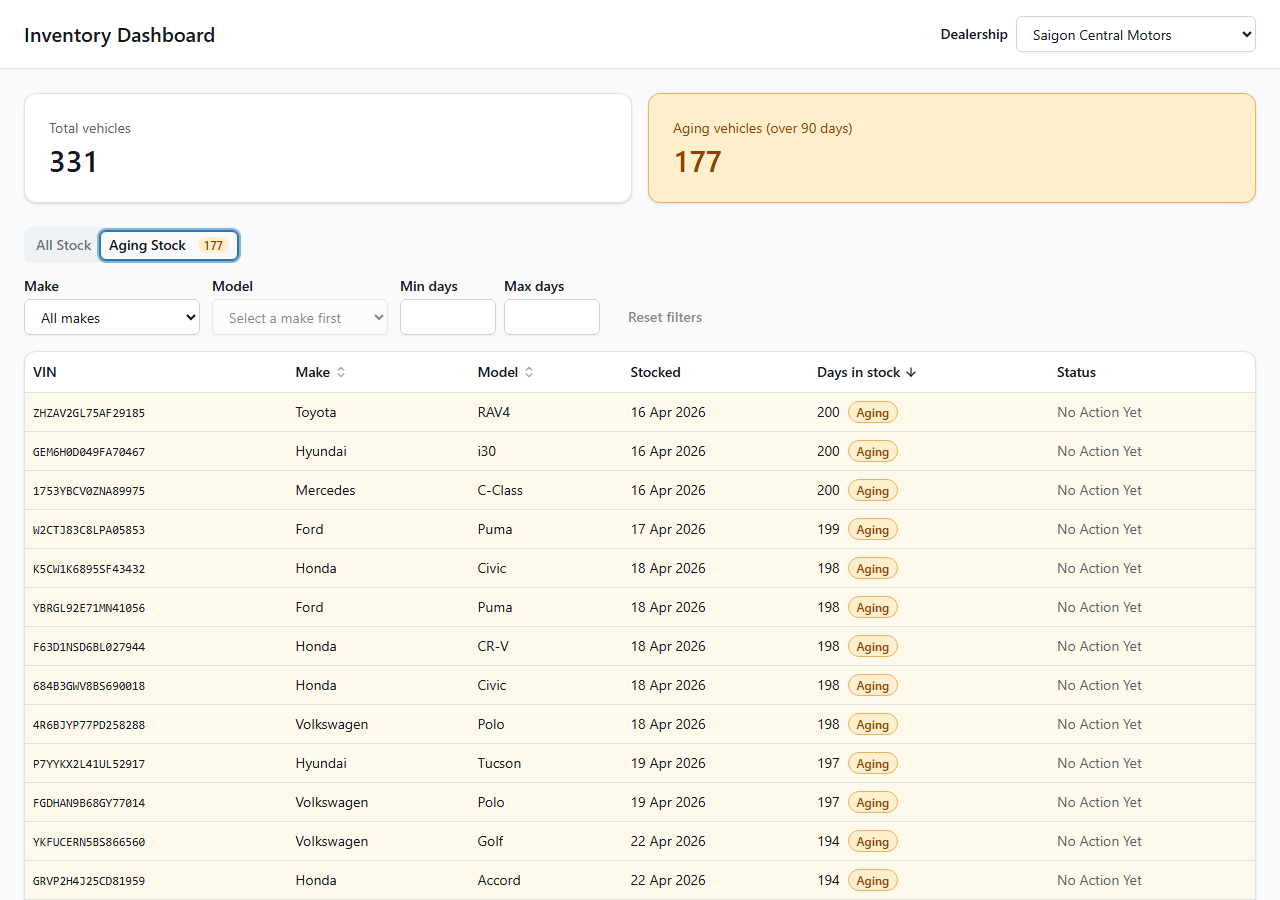
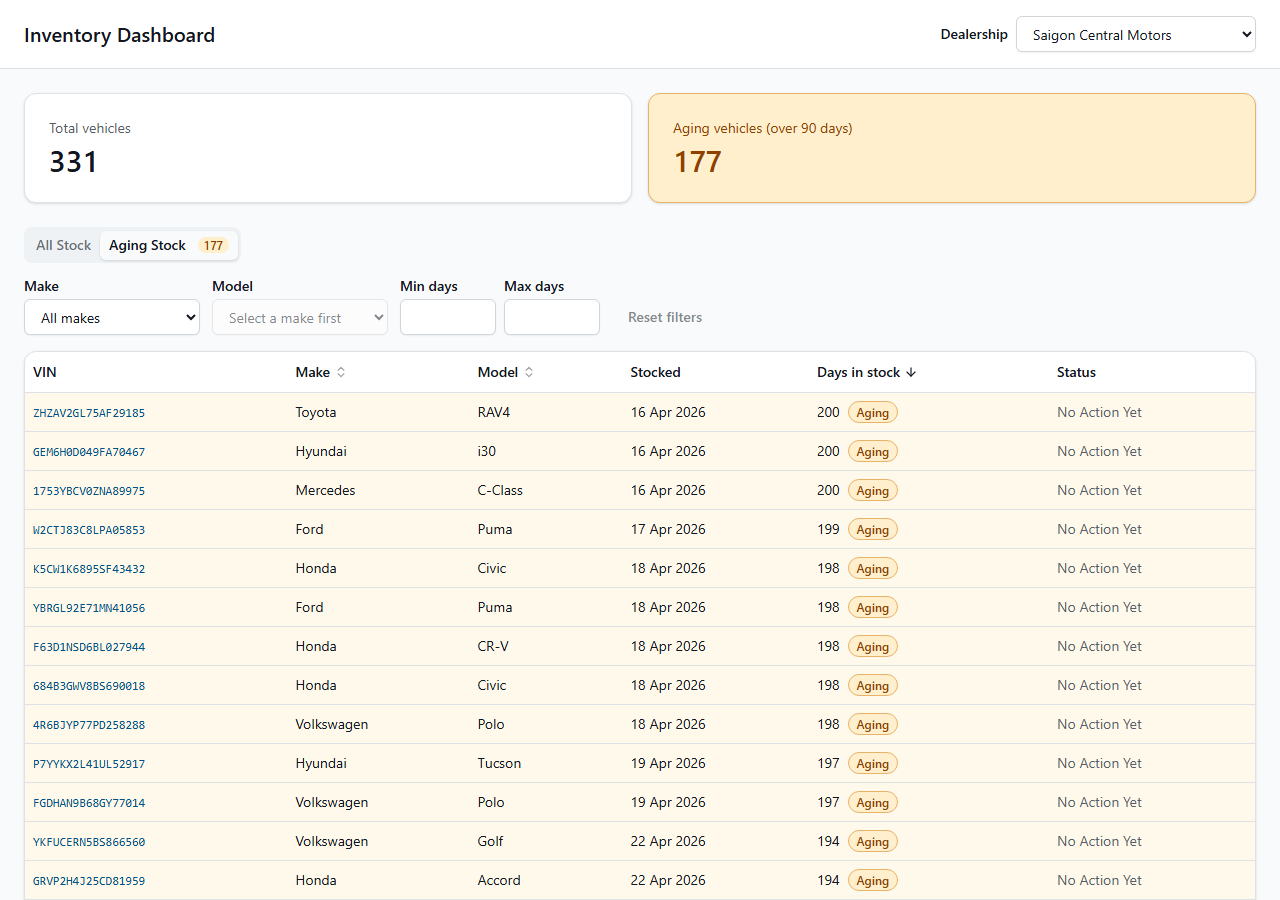
docs: complete README and AI collaboration narrative

diff --git a/src/lib/queryClient.test.ts b/src/lib/queryClient.test.ts
@@ -1,0 +1,9 @@
+import { createQueryClient } from '@/lib/queryClient';
+
+describe('createQueryClient', () => {
+  it('keeps data fresh by polling every 60 seconds and refetching on tab focus', () => {
+    const { queries } = createQueryClient().getDefaultOptions();
+    expect(queries?.refetchInterval).toBe(60_000);
+    expect(queries?.refetchOnWindowFocus).toBe(true);
+  });
+});

diff --git a/README.md b/README.md
@@ -1,22 +1,139 @@
 # Intelligent Inventory Dashboard
 
-Keyloop Technical Assessment, Scenario B (frontend). See [SYSTEM_DESIGN.md](SYSTEM_DESIGN.md) for the architecture.
+Keyloop Technical Assessment, Scenario B (Supply). A dashboard that lets a dealership manager see vehicle stock, spot cars in stock for more than 90 days, and record a decision on each one.
+
+The **frontend is fully built**. The backend is mocked with [MSW](https://mswjs.io), which follows the API contract in the design, so replacing it with a real API needs no change to application code.
+
+- **Architecture and decisions:** [SYSTEM_DESIGN.md](SYSTEM_DESIGN.md)
+- **Delivery plan:** [PLAN.md](PLAN.md)
+- **Phase-by-phase AI log:** [docs/ai-log.md](docs/ai-log.md)
+
+![Inventory list with the aging summary, tabs and filters](docs/screenshots/inventory-list.png)
+
+## What it does
+
+| Requirement             | How it works                                                                                                                                                                                         |
+| ----------------------- | ---------------------------------------------------------------------------------------------------------------------------------------------------------------------------------------------------- |
+| **Inventory list**      | Filter by make, model (depends on make) and days in stock. Sorting and paging happen on the server. All state is in the URL, so views can be shared and survive a reload.                            |
+| **Aging stock**         | Vehicles over 90 days get a badge, a tinted row, a highlighted summary card and their own tab, oldest first. Age is calculated by the API on the dealership's local calendar, never the browser.     |
+| **Actionable insights** | Log a status and optional note on an aging vehicle. Saves appear immediately and roll back on failure. A version check catches two managers editing the same car. Every change is kept in a history. |
+
+![Action panel with a saved action and its history](docs/screenshots/action-panel.png)
 
 ## Getting started
+
+You need Node.js 22.12 or later.
 
 ```bash
 npm install
 npm run dev
 ```
 
+Open <http://localhost:5173>. The mock API starts automatically, and there is nothing else to run.
+
 ## Scripts
 
-| Script               | Purpose                     |
-| -------------------- | --------------------------- |
-| `npm run dev`        | Start the dev server        |
-| `npm run build`      | Typecheck and build         |
-| `npm run preview`    | Serve the production build  |
-| `npm run lint`       | ESLint and Prettier checks  |
-| `npm run typecheck`  | TypeScript checks           |
-| `npm test`           | Run the test suite once     |
-| `npm run test:watch` | Run the tests in watch mode |
+| Script               | Purpose                                                 |
+| -------------------- | ------------------------------------------------------- |
+| `npm run dev`        | Dev server with the mock API                            |
+| `npm test`           | Run the test suite once                                 |
+| `npm run test:watch` | Run the tests in watch mode                             |
+| `npm run lint`       | ESLint and Prettier checks                              |
+| `npm run typecheck`  | TypeScript checks                                       |
+| `npm run build`      | Production build, without the mock (expects a real API) |
+| `npm run build:demo` | Production build with the mock included                 |
+| `npm run preview`    | Serve the latest build                                  |
+
+To try a built version with data, run `npm run build:demo`, then `npm run preview`.
+
+## Testing
+
+`npm test` runs the suite with Vitest and React Testing Library. CI runs lint, typecheck, tests and a build on every pull request.
+
+| Layer          | What is covered                                                                                                                               |
+| -------------- | --------------------------------------------------------------------------------------------------------------------------------------------- |
+| Business rules | Day 90 versus day 91, local midnight in several time zones, 23-hour and 25-hour daylight-saving days                                          |
+| Mock API       | Filters, sorting, paging, validation and the 400, 404 and 409 responses, called through the real API client                                   |
+| User behaviour | The whole app rendered against the mock handlers: filters and URL state, aging view, saving, validation, rollback, conflicts and keyboard use |
+| Observability  | Request ids, log format and the error boundary                                                                                                |
+
+## Demo scenarios
+
+| Scenario             | How to reproduce                                                                                                                                                      |
+| -------------------- | --------------------------------------------------------------------------------------------------------------------------------------------------------------------- |
+| Failed page load     | Open `/?mockError=500`, then use **Try again**                                                                                                                        |
+| Failed save          | Open `/?mockError=500&mockErrorOn=PUT`, then save an action on an aging vehicle. It appears, rolls back and a message explains why                                    |
+| Version conflict     | Open the same aging vehicle in two tabs. In tab B, change the status **without saving**. In tab A, change it and save. Back in tab B, save: "Updated by someone else" |
+| Different time zones | Use the dealership picker. The three dealerships are in Ho Chi Minh City, London and New York                                                                         |
+| Clear saved actions  | Remove `inventory-dashboard.mock-actions.v1` from localStorage                                                                                                        |
+
+## About the mock
+
+- It generates 1,000 vehicles from a fixed seed. Stocking dates are relative to today, so the demo always has a spread of 0 to 200 days.
+- Actions and history are saved in localStorage. Vehicles come from the seed.
+- Responses take 200 to 600 ms, to simulate a network.
+- Actions are recorded as "Demo Manager", because authentication is out of scope.
+- The mock is loaded on demand and is left out of `npm run build`.
+
+## Project structure
+
+```
+src/
+  api/          Typed fetch client, endpoints and query keys
+  components/   Shared UI (shadcn/ui in components/ui)
+  features/
+    inventory/  Summary, tabs, filters, table, paging and URL state
+    vehicle/    Side panel, action form and history
+  domain/       Types, statuses and the aging calculation
+  hooks/        Data fetching and the optimistic save
+  lib/          Logger, web vitals, URL state and formatting
+  mocks/        MSW seed, database, handlers and error injection
+  test/         Test setup, fixtures and render helpers
+```
+
+## Observability
+
+- **Logs:** structured JSON through one logger in `src/lib/logger.ts`. `setLogSink` is the single place to connect a service such as Sentry.
+- **Errors:** an error boundary and global handlers catch unexpected failures, and API failures are logged with their request id.
+- **Metrics:** web vitals (CLS, FCP, INP, LCP, TTFB) are logged as `web_vital` entries.
+- **Tracing:** every API call sends a unique `X-Request-Id`, to link a UI error to backend logs.
+
+## AI Collaboration Narrative
+
+### Strategy
+
+I treated the AI as a fast engineer working to a specification I own. I used Claude for research and design, then Claude Code for implementation.
+
+1. **Design first.** I chose the scenario and shaped the design with Claude, cutting what the brief did not need. [SYSTEM_DESIGN.md](SYSTEM_DESIGN.md) records those decisions.
+2. **Written rules.** [PLAN.md](PLAN.md) set the source of truth, one branch and pull request per phase, and a ban on inventing business rules.
+3. **Check before coding.** I had the agent compare the brief with the design and plan before writing code. That added the missing response shapes, a maintainability note and an explicit "no authentication" assumption.
+
+### Verifying the output
+
+I did not accept the AI's work because it looked right. Each phase had to pass independent checks:
+
+- **Automated gates:** lint, strict typecheck, tests and a build, locally and in CI.
+- **Tests on the rules that matter most:** the 90-day boundary, time zones, daylight saving, optimistic rollback and version conflicts.
+- **A real browser:** jsdom cannot run a service worker, so scripted Chromium runs exercised the real mock, two real tabs and the built bundle.
+- **Accessibility tooling:** an axe audit and a keyboard-only run.
+- **The [AI log](docs/ai-log.md):** what was asked, kept, changed and how it was verified, per phase.
+
+### What verification caught
+
+| Problem                                                                                                                     | How it was found         | Resolution                                                                                 |
+| --------------------------------------------------------------------------------------------------------------------------- | ------------------------ | ------------------------------------------------------------------------------------------ |
+| The planned two-tab conflict could never fire, because refetch on focus gave the second tab the new version before it saved | Reasoning about the plan | An edited form keeps the version it started from. Tested, and confirmed with two real tabs |
+| `?mockError=500` was used up by the first request on page load, so a failed save could not be demonstrated                  | Reasoning about the plan | Added `&mockErrorOn=PUT`                                                                   |
+| Closing the panel sent keyboard focus to the top of the page                                                                | A failing test           | Focus returns to the row that opened the panel                                             |
+| The summary cards had invalid list markup                                                                                   | axe audit                | Replaced the markup                                                                        |
+| The shadcn CLI generated a broken import, and newer library versions had incompatible APIs or dependency conflicts          | Typecheck and CI         | Corrected the import and pinned compatible versions                                        |
+
+### What went wrong
+
+The AI merged Phase 4 while CI was failing, because a retry command did not make the merge conditional on the result. `main` was broken for a short time. CI showed the problem straight away: a dependency conflict that only failed on a clean CI install, and then a test timing assumption that only failed on a slower machine. Both were diagnosed from the logs and fixed through a pull request that merged only after CI passed.
+
+The lesson I took from this is that a gate only works if nothing can get past it, and that includes the agent's own shortcuts.
+
+### Ownership
+
+To keep delivery moving, I had the agent merge each phase once its checks passed, and I review the combined result as the final gate. Automated checks and real-browser runs covered each phase; judgement on the final code and design is mine.

diff --git a/docs/ai-log.md b/docs/ai-log.md
@@ -50,3 +50,10 @@ One entry per delivery phase: what the AI was asked to do, what was kept or chan
 - Changed / rejected and why: a scripted axe audit flagged the summary cards' `dl` markup because card wrappers sat between `dl` and `dt`, so it was replaced with plain elements. A skip link was added. The app now still renders if the mock fails to start, so its error states can explain the problem.
 - How verified: unit tests for the logger, client and error boundary; axe (WCAG 2.1 A/AA and best practices) clean on the page and the open panel; a scripted keyboard-only run from the skip link through to saving an action and focus returning to the row; request ids confirmed present and unique on every API call; no console errors.
 - Follow-up to the Phase 4 incident: the CI failure was also a timing assumption in one test, because the error toast renders a tick before the table rollback. The test now waits for the rollback, and would still fail if it never happened.
+
+## Phase 6 – Docs and polish
+
+- Asked AI to: write the README and AI Collaboration Narrative, finalise this log, and re-check the finished app against the brief.
+- Accepted: README structure following the brief's build, run and test requirements.
+- Changed / rejected and why: added the missing test for the polling configuration. Demo steps state that the second tab must have an unsaved edit, because an untouched form correctly follows the latest data and raises no conflict.
+- How verified: 12 scripted end-to-end checks on the built demo bundle covering filters, the aging boundary, save, rollback, load errors and dealership switching; production bundle confirmed free of mock code; README steps run from a fresh clone.
